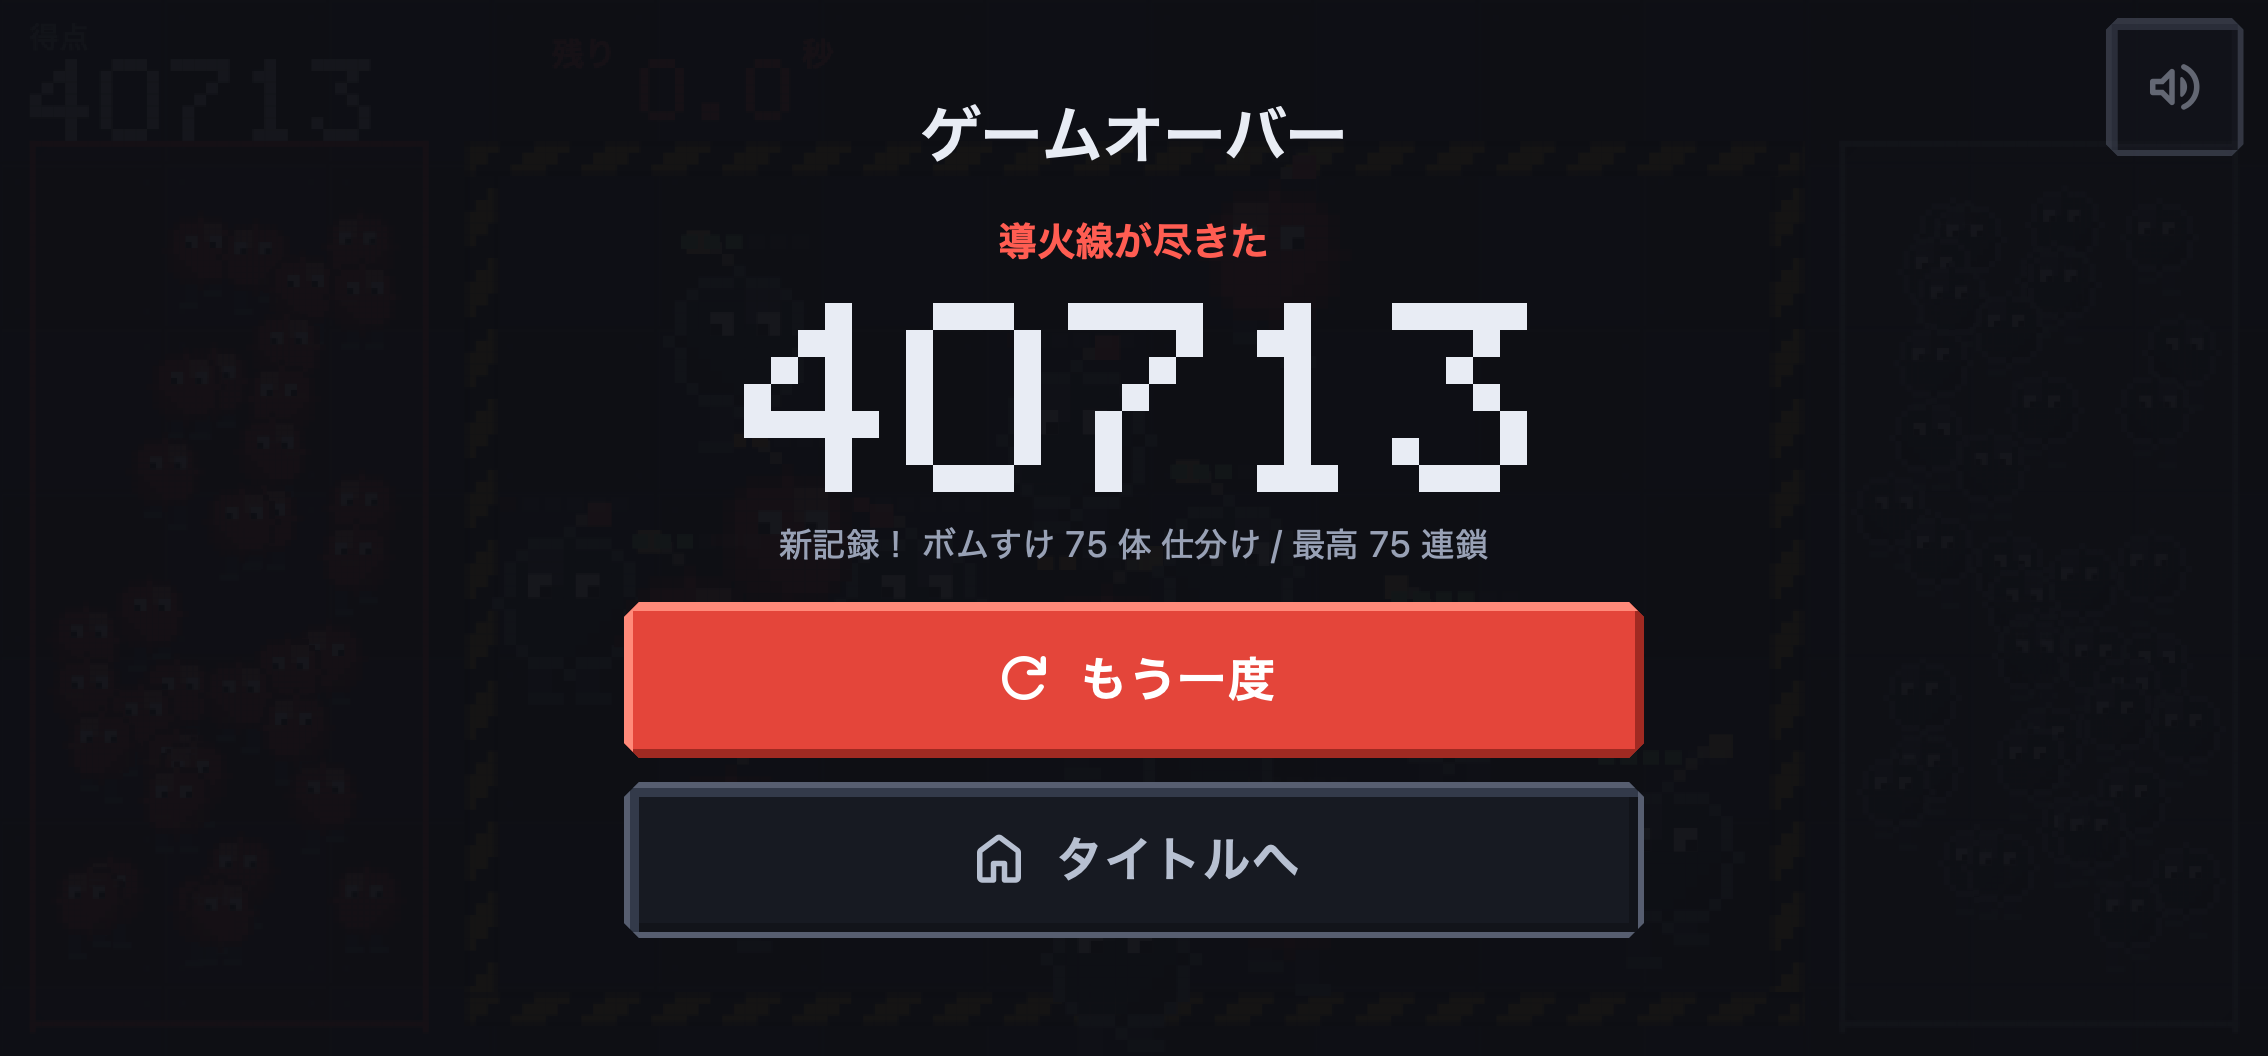
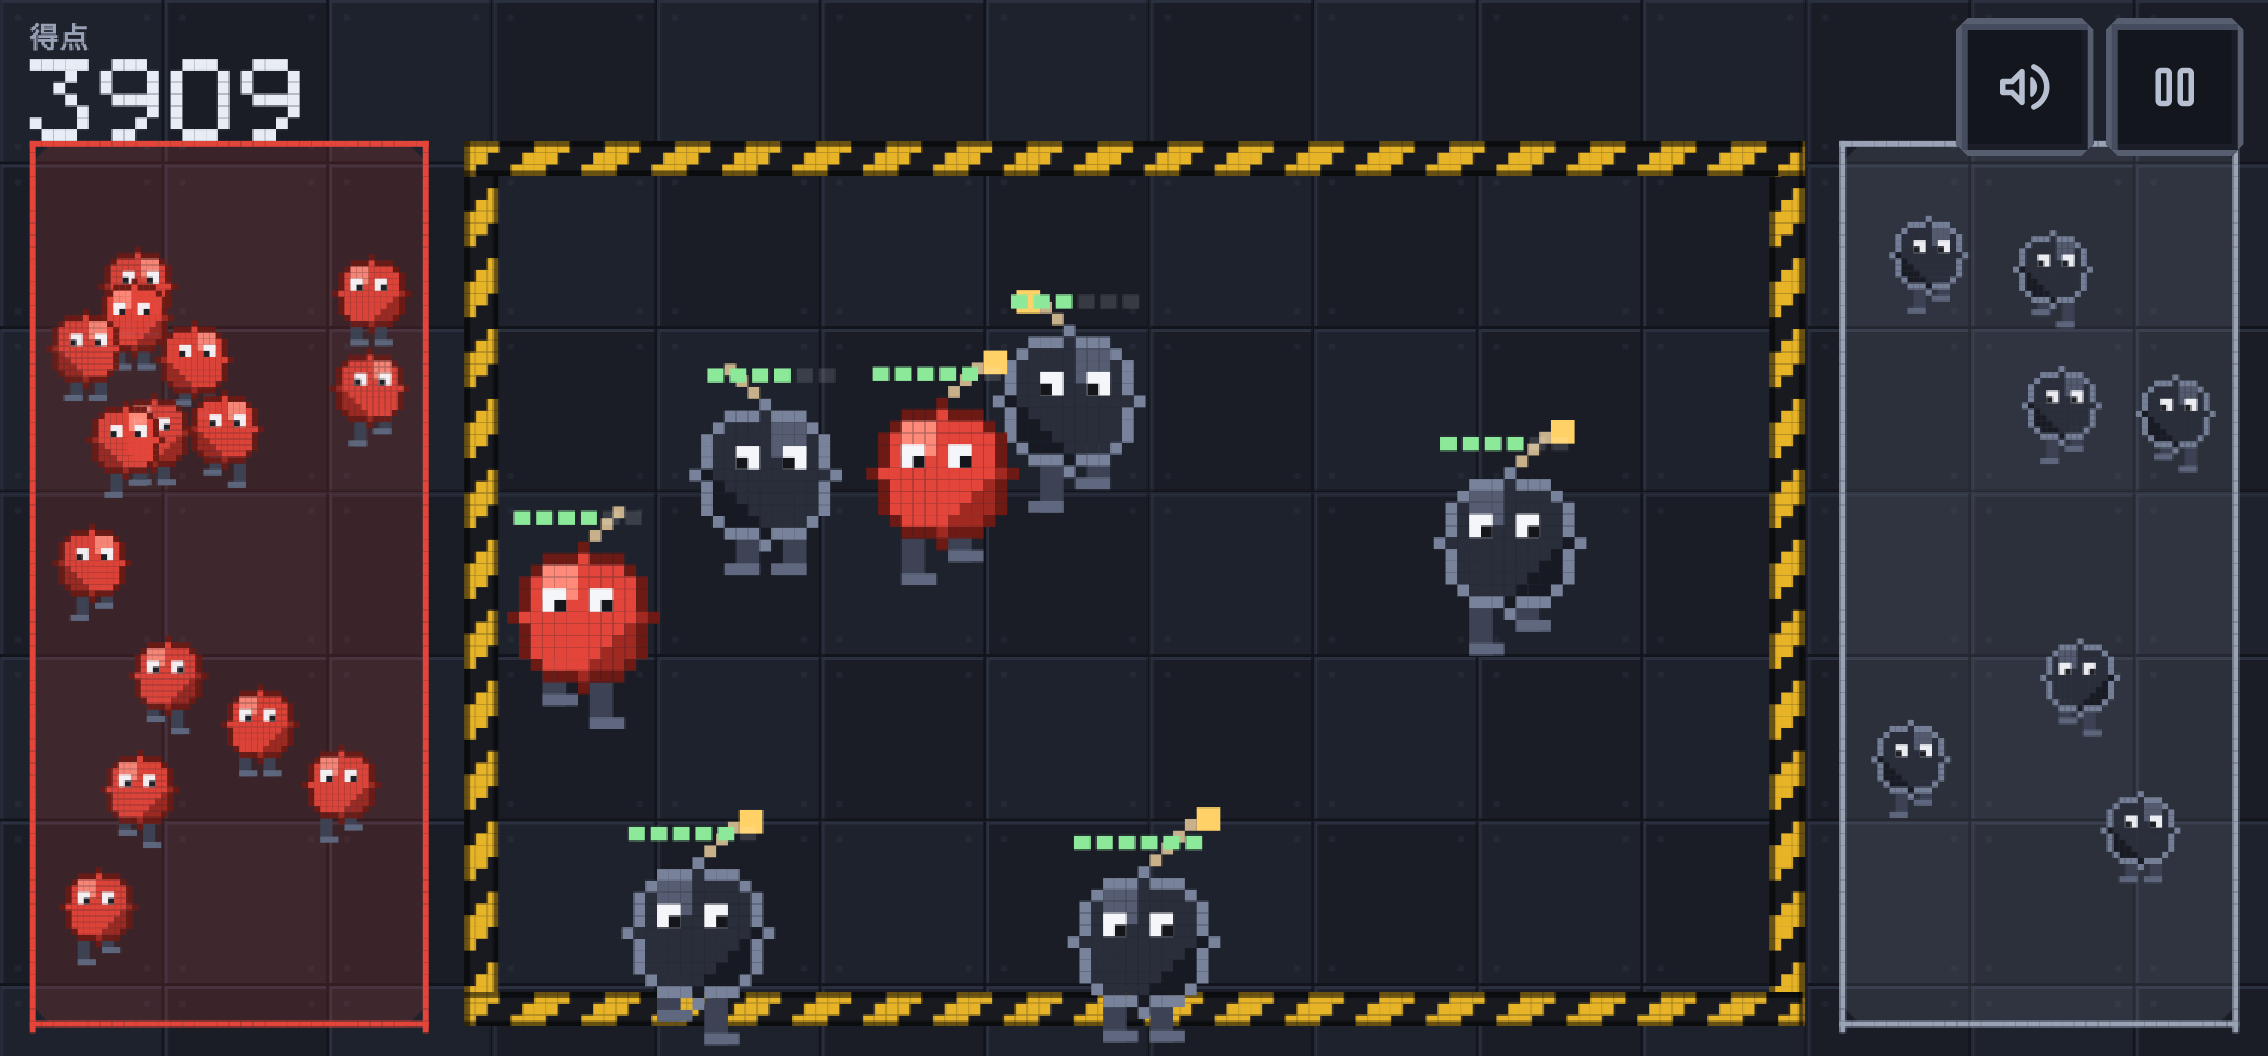
序盤の要求を三分の一にして、湧いてくる過程を見せる作りに戻す
開始時点で 10 体並べていたのは行き過ぎだった。いきなり捌ききれない量が見えると
「難しい」ではなく「もう無理」になって手が止まる。3 体から始めて、0.9 秒間隔で
どんどん湧いてくる形にした。増えていく過程そのものが手応えになる。

難しくなる速さも緩めた。同時に存在できる上限は 5 から 18 秒ごとに 1 ずつ増えて
14 まで、導火線は 13 秒から 1 分あたり 1 秒ずつ短くなって下限 4.5 秒まで。
必要な処理速度（同時上限 ÷ 導火線）は、開始 0.38 体/秒・2 分で 1.0・3 分で 1.4 になる。
以前は開始時点で 1.0 体/秒を要求していたので、序盤の負荷はおよそ三分の一になった。

どの数字がどう効くのかを README に表で載せた。調整するときにどこを触ればいいかが
一目で分かるようにしておく。

Claude-Session: https://claude.ai/code/session_01Vzh6TFqe8fJw5RER1d8Utb

diff --git a/src/core/constants.ts b/src/core/constants.ts
@@ -61,12 +61,11 @@ export const BOMB = {
 } as const
 
 export const FUSE = {
-  // 同時に出る数を大きく増やしたぶん、1 体あたりの猶予は長くする。
-  // 開始数秒で手の打ちようがなく全滅するのは「難しい」ではなく「理不尽」になる
-  START_SEC: 12.0,
-  MIN_SEC: 3.2,
-  /** 1 分あたりどれだけ短くなるか */
-  DECAY_PER_MIN: 1.6,
+  START_SEC: 13.0,
+  /** 終盤でもこれ以下にはしない。短くしすぎると運ぶ時間そのものが足りなくなる */
+  MIN_SEC: 4.5,
+  /** 1 分あたりどれだけ短くなるか。急がせすぎない */
+  DECAY_PER_MIN: 1.0,
   WARN_RATIO: 0.35,
   CRITICAL_RATIO: 0.15,
   /** 導火線の残量を示すドットの数 */
@@ -75,20 +74,23 @@ export const FUSE = {
 
 export const SPAWN = {
   /**
-   * 最初から画面いっぱいにボムすけを出す。
-   * 落ち着いて 1 体ずつ運べる時間があると、それはもうパニックゲームではない。
-   * 開始直後から捌ききれない量が四方から出てくる状態を作る。
+   * 最初に置く数。少なめにする。
+   *
+   * 一度は開始時点で 10 体置いてみたが、いきなり捌ききれない量が並ぶと
+   * 「難しい」ではなく「もう無理」に見えて手が止まる。数体から始めて、
+   * 短い間隔で次々と湧いてくる形にすると、増えていく手応えが出る。
    */
-  BURST_AT_START: 10,
-  INTERVAL_START: 0.5,
-  INTERVAL_MIN: 0.25,
-  /** 指数収束の時定数（秒） */
-  TAU_SEC: 60,
+  BURST_AT_START: 3,
+  /** 短い間隔で湧かせる。上限に達している間はタイマーが止まるので溢れはしない */
+  INTERVAL_START: 0.9,
+  INTERVAL_MIN: 0.45,
+  /** 指数収束の時定数（秒）。大きいほど難しくなるのがゆっくりになる */
+  TAU_SEC: 75,
   JITTER: 0.3,
-  FIRST_DELAY: 0.15,
-  ALIVE_START: 12,
-  ALIVE_CAP: 20,
-  ALIVE_STEP_SEC: 12,
+  FIRST_DELAY: 0.5,
+  ALIVE_START: 5,
+  ALIVE_CAP: 14,
+  ALIVE_STEP_SEC: 18,
   /** 同じ色が続く上限。これを超えたら反対の色を強制する */
   MAX_SAME_KIND_RUN: 3,
 } as const

diff --git a/README.md b/README.md
@@ -17,12 +17,24 @@
 対応していないので、その場合はホーム画面に追加すると画面をいっぱいに使えます）。
 
 - 鉄板の床の上を、ボムすけが自分の足でよちよち歩き回っています
-- **開始した瞬間から 12 体がうじゃうじゃ出てきます**。落ち着いて 1 体ずつ運ぶ時間はありません
+- 数体から始まって、**短い間隔でどんどん湧いてきます**
 - 指でドラッグして、**同じ色の箱**へ運びます（左が赤、右が黒）
 - 違う色の箱に入れると爆発してゲームオーバー
 - 導火線が尽きても爆発。頭の上のドットが残り時間です
 - 続けて成功すると連鎖して倍率が上がります。最後の成功から 3 秒以内に次を決めると継続
-- 時間が経つほど、出てくる間隔が短く・同時に出る数が多く・導火線が短くなります
+- 時間が経つほど難しくなります。効くのは 4 つで、同時に存在できる数・導火線の長さ・
+  出現の間隔・歩く速さです
+
+| 経過   | 同時上限 | 導火線  | 出現間隔 | 歩く速さ | 必要な処理速度 |
+| ------ | -------- | ------- | -------- | -------- | -------------- |
+| 0 秒   | 5 体     | 13.0 秒 | 0.90 秒  | 1.00 倍  | 0.38 体/秒     |
+| 60 秒  | 8 体     | 12.0 秒 | 0.65 秒  | 1.55 倍  | 0.67 体/秒     |
+| 120 秒 | 11 体    | 11.0 秒 | 0.54 秒  | 2.09 倍  | 1.00 体/秒     |
+| 180 秒 | 14 体    | 10.0 秒 | 0.49 秒  | 2.40 倍  | 1.40 体/秒     |
+| 300 秒 | 14 体    | 8.0 秒  | 0.46 秒  | 2.40 倍  | 1.75 体/秒     |
+
+「必要な処理速度」は 同時上限 ÷ 導火線 で、これを下回ると詰みはじめます。
+数値はすべて [`src/core/constants.ts`](src/core/constants.ts) の 1 箇所にあります。
 
 仕分けたボムすけは箱の中に残って歩き回ります。どれだけ捌いたかが数字ではなく目で分かります。
 指は 2 本まで同時に使えるので、両手の親指で左右へ振り分けられます。

diff --git a/CLAUDE.md b/CLAUDE.md
@@ -118,5 +118,7 @@ npm run shots && open shots/
 - 難易度上昇に「色の見分けにくさ」を使わない。上げるのは同時数・間隔・導火線・歩く速さだけ
 - ボムを落下させない。自分の足で歩かせる。触っていないボムが勝手に箱へ入ると理不尽になる
 - UI 文言をひらがなだらけにしない。子供向けのゲームではないので、漢字を使う
-- 序盤を「1 体ずつ運ぶだけ」にしない。最初から複数体が四方から出てくる（`SPAWN.BURST_AT_START`）
+- 序盤を「1 体ずつ運ぶだけ」にしない。数体から始めて短い間隔で湧かせる（`SPAWN.BURST_AT_START`）。
+  ただし開始時点で大量に並べるのもだめ。一度 10 体置いてみたら、いきなり捌ききれない量が
+  見えて「難しい」ではなく「もう無理」になり、手が止まった。増えていく過程を見せる
 - Service Worker の `skipWaiting` を無条件に呼ばない。プレイ中に勝手にリロードされるとスコアが飛ぶ
